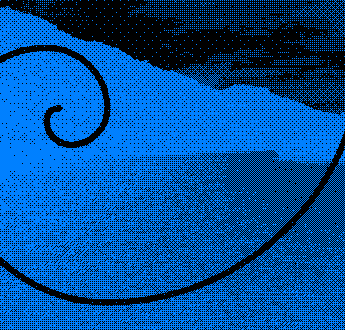
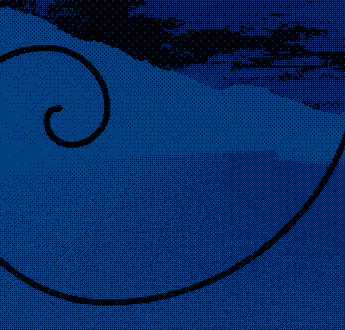
更新了一下（一整晚没睡了^^;;
这次是实打实的性能提升了（认真的，因为这个整晚都没睡了
然后没了

diff --git a/SCRIPT/SPRITE/ITEM.py b/SCRIPT/SPRITE/ITEM.py
@@ -9,9 +9,9 @@ from LOGIC import Tool
 
 class Item(pygame.sprite.Sprite):
     item_image = {
-        f"R_IT_{(0, 255, 0)}": Tool.draw_rectangle((9, 9), 2, (0, 255, 0)),
-        f"R_IT_{(45, 194, 229)}": Tool.draw_rectangle((9, 9), 2, (45, 194, 229)),
-        f"R_IT_{(255, 255, 255)}": Tool.draw_rectangle((9, 9), 2, (255, 255, 255))
+        f"R_IT_{(0, 255, 0)}": Tool.draw_rectangle((9, 9), 2, (0, 255, 0)).convert_alpha(),
+        f"R_IT_{(45, 194, 229)}": Tool.draw_rectangle((9, 9), 2, (45, 194, 229)).convert_alpha(),
+        f"R_IT_{(255, 255, 255)}": Tool.draw_rectangle((9, 9), 2, (255, 255, 255)).convert_alpha()
     }
 
     def __init__(th, type: str, speed: float, color: tuple, pos: tuple):
@@ -19,22 +19,20 @@ class Item(pygame.sprite.Sprite):
 
         th.type = type
         th.speed = speed
-        th.color = color
 
         th.current_angle = 0
         th.is_rotated = False
 
-        th.original_image = th.get_type(type)
-        th.image = th.original_image
+        th.image = th.get_type(type, color)
         th.rect = th.image.get_rect()
 
         th.rect.center = pos
 
-    def get_type(th, type: str) -> pygame.Surface:
+    def get_type(th, type: str, color: tuple) -> pygame.Surface:
         item_dict = {
-            "power": lambda: Item.item_image[f"R_IT_{th.color}"],
-            "flash": lambda: Item.item_image[f"R_IT_{th.color}"],
-            "fire": lambda: Item.item_image[f"R_IT_{th.color}"]
+            "power": lambda: Item.item_image[f"R_IT_{color}"],
+            "flash": lambda: Item.item_image[f"R_IT_{color}"],
+            "fire": lambda: Item.item_image[f"R_IT_{color}"]
         }
 
         return item_dict.get(type)()

diff --git a/SCRIPT/SPRITE/BRICK.py b/SCRIPT/SPRITE/BRICK.py
@@ -16,11 +16,11 @@ class Brick(pygame.sprite.Sprite):
     brick_dict = {
         f"C_BR_{(255, 128, 0)}": brick_image.subsurface((0, 0, 15, 15)),
         f"C_BR_{(251, 234, 18)}": brick_image.subsurface((45, 0, 15, 15)),
-        f"C_BR_{(255, 255, 255)}": Tool.draw_circle((0, 0, 15, 15), 2, (255, 255, 255)),
+        f"C_BR_{(255, 255, 255)}": Tool.draw_circle((0, 0, 15, 15), 2, (255, 255, 255)).convert_alpha(),
         f"T_BR_{(0, 255, 0)}": brick_image.subsurface((15, 0, 15, 15)),
         f"T_BR_{(255, 255, 255)}": brick_image.subsurface((60, 0, 15, 15)),
         f"R_BR_{(128, 0, 128)}": brick_image.subsurface((30, 0, 15, 15)),
-        f"R_BR_{(255, 255, 255)}": Tool.draw_rectangle((15, 15), 2, (255, 255, 255))
+        f"R_BR_{(255, 255, 255)}": Tool.draw_rectangle((15, 15), 2, (255, 255, 255)).convert_alpha()
     }
 
     def __init__(th, type: str, hp: int, color: tuple, pos: tuple):
@@ -34,10 +34,10 @@ class Brick(pygame.sprite.Sprite):
         th.have_flash = False
         th.is_die = False
 
-        th.original_image = th.get_type(type)
-        th.image = th.original_image
+        th.image = th.get_type(type)
         th.rect = th.image.get_rect()
         th.mask = pygame.mask.from_surface(th.image)
+
         th.rect.center = pos
 
     def get_type(th, type: int) -> pygame.Surface:

diff --git a/SCRIPT/GLOBAL.py b/SCRIPT/GLOBAL.py
@@ -80,17 +80,17 @@ level = 0
 
 
 picture = {
-    1: pygame.image.load(os.path.join(asset_path, 'IMAGE\IMG_STAGE1BG.png')).convert_alpha(),
-    2: pygame.image.load(os.path.join(asset_path, 'IMAGE\IMG_STAGE2BG.png')).convert_alpha(),
-    3: pygame.image.load(os.path.join(asset_path, 'IMAGE\IMG_STAGE3BG.png')).convert_alpha(),
-    4: pygame.image.load(os.path.join(asset_path, 'IMAGE\IMG_STAGE4BG.png')).convert_alpha(),
+    1: pygame.image.load(os.path.join(asset_path, 'IMAGE\IMG_STAGE1BG.png')).convert(),
+    2: pygame.image.load(os.path.join(asset_path, 'IMAGE\IMG_STAGE2BG.png')).convert(),
+    3: pygame.image.load(os.path.join(asset_path, 'IMAGE\IMG_STAGE3BG.png')).convert(),
+    4: pygame.image.load(os.path.join(asset_path, 'IMAGE\IMG_STAGE4BG.png')).convert(),
     "GAME_BG": pygame.image.load(os.path.join(asset_path, 'IMAGE\IMG_GAMEBG.png')).convert_alpha(),
-    "MENU_BG": Tool.draw_rectangle((345, 330), 0, (0, 0, 0))
+    "MENU_BG": Tool.draw_rectangle((345, 330), 0, (0, 0, 0)).convert()
 }
 
 
 background = picture["GAME_BG"]
-second_background = Tool.change_background(picture[stage], 128)
+second_background = picture[stage]
 
 
 char = None

diff --git a/SCRIPT/SPRITE/BARRAGE.py b/SCRIPT/SPRITE/BARRAGE.py
@@ -13,9 +13,9 @@ from LOGIC import FUNC, Tool
 
 class Barrage(pygame.sprite.Sprite):
     barrage_dict = {
-        f"C_BA_{(255, 128, 0)}": Tool.draw_circle((0, 0, 9, 9), 0, (255, 128, 0)),
-        f"C_BA_{(251, 234, 18)}": Tool.draw_circle((0, 0, 9, 9), 0, (251, 234, 18)),
-        f"C_BA_{(255, 255, 255)}": Tool.draw_circle((0, 0, 9, 9), 0, (255, 255, 255)),
+        f"C_BA_{(255, 128, 0)}": Tool.draw_circle((0, 0, 9, 9), 0, (255, 128, 0)).convert_alpha(),
+        f"C_BA_{(251, 234, 18)}": Tool.draw_circle((0, 0, 9, 9), 0, (251, 234, 18)).convert_alpha(),
+        f"C_BA_{(255, 255, 255)}": Tool.draw_circle((0, 0, 9, 9), 0, (255, 255, 255)).convert_alpha(),
         f"T_BA_{(0, 255, 0)}": barrage_image.subsurface((0, 0, 9, 8)),
         f"T_BA_{(255, 255, 255)}": barrage_image.subsurface((9, 0, 9, 8))
     }

diff --git a/SCRIPT/SPRITE/LINE.py b/SCRIPT/SPRITE/LINE.py
@@ -14,7 +14,6 @@ class Line(pygame.sprite.Sprite):
     def __init__(th, size: tuple, damage: int, angle: float, pos: tuple, color: tuple, target_color: tuple):
         super().__init__()
 
-        th.width, th.height = size
         th.damage = damage
         th.current_angle = angle
         th.color = color
@@ -24,7 +23,7 @@ class Line(pygame.sprite.Sprite):
         th.timer = 0
         th.is_rotated = False
 
-        th.original_image = Tool.draw_rectangle((th.width, th.height), 0, th.color)
+        th.original_image = Tool.draw_rectangle((size[0], size[1]), 0, th.color).convert_alpha()
         th.image = th.original_image
         th.rect = th.image.get_rect()
         th.mask = pygame.mask.from_surface(th.image)

diff --git a/SCRIPT/SPRITE/PARTICLE.py b/SCRIPT/SPRITE/PARTICLE.py
@@ -14,15 +14,13 @@ class Particle(pygame.sprite.Sprite):
     def __init__(th, size: tuple, speed: float, angle: float, pos: tuple, color: tuple, type: str='normal'):
         super().__init__()
 
-        th.width, th.height = size
         th.speed = speed
-        th.color = color
         th.current_angle = angle
         th.type = type
 
         th.is_rotated = False
 
-        th.original_image = Tool.draw_rectangle((th.width, th.height), 0, th.color)
+        th.original_image = Tool.draw_rectangle((size[0], size[1]), 0, color).convert_alpha()
         th.image = th.original_image
         th.rect = th.image.get_rect()
 

diff --git a/SCRIPT/SPRITE/BULLET.py b/SCRIPT/SPRITE/BULLET.py
@@ -12,8 +12,8 @@ from LOGIC import FUNC, Tool
 
 class Bullet(pygame.sprite.Sprite):
     bullet_image = {
-        "KLI_BULLET": Tool.draw_rectangle((2, 15), 0, (45, 194, 229)),
-        "KLI_BOMB": Tool.draw_rectangle((15, 15), 0, (45, 194, 229))
+        "KLI_BULLET": Tool.draw_rectangle((2, 15), 0, (45, 194, 229)).convert_alpha(),
+        "KLI_BOMB": Tool.draw_rectangle((15, 15), 0, (45, 194, 229)).convert()
     }
 
     def __init__(th, type: str, speed: float, angle: float, damage: int, pos: tuple):

diff --git a/LOGIC/TOOL.py b/LOGIC/TOOL.py
@@ -35,13 +35,6 @@ def update_fps(fps: object, timer: int, bit: int, interval: int, clock: pygame.t
     return fps, timer
 
 
-def change_background(picture: pygame.Surface, alpha: int) -> pygame.Surface:
-    background = picture
-    background.set_alpha(alpha)
-
-    return background
-
-
 def draw_rectangle(size: tuple, border: float, color: tuple) -> pygame.Surface:
     surface = pygame.Surface((size[0], size[1]), pygame.SRCALPHA)
 

diff --git a/SCRIPT/SPRITE/RECT.py b/SCRIPT/SPRITE/RECT.py
@@ -11,7 +11,7 @@ class Rect(pygame.sprite.Sprite):
     def __init__(th, size: tuple, border: float, color: tuple, pos: tuple=(0, 0)):
         super().__init__()
 
-        th.image =Tool.draw_rectangle((size[0], size[1]), border, color)
+        th.image =Tool.draw_rectangle((size[0], size[1]), border, color).convert()
         th.rect = th.image.get_rect()
         th.mask = pygame.mask.from_surface(th.image)
 

diff --git a/SCRIPT/KERNEL.py b/SCRIPT/KERNEL.py
@@ -27,7 +27,7 @@ def option() -> None:
     GLOBAL.level = int(LOGIC.FUNC.clamp(args.level, 0, 5))
     GLOBAL.flash = int(LOGIC.FUNC.clamp(args.flash, 0, 96))
     GLOBAL.power = int(LOGIC.FUNC.clamp(args.power, 0, 32))
-    GLOBAL.second_background = LOGIC.Tool.change_background(GLOBAL.picture[GLOBAL.stage], 128)
+    GLOBAL.second_background = GLOBAL.picture[GLOBAL.stage]
 
 
 def sprite_loader() -> None:

diff --git a/SCRIPT/RESET.py b/SCRIPT/RESET.py
@@ -41,7 +41,7 @@ def mode_two() -> None:
     GLOBAL.level = 0
     GLOBAL.char = None
 
-    GLOBAL.second_background = Tool.change_background(GLOBAL.picture[GLOBAL.stage], 128)
+    GLOBAL.second_background = GLOBAL.picture[GLOBAL.stage]
 
     GLOBAL.no_flash = 0
     GLOBAL.flash = 3

diff --git a/SCRIPT/KEY.py b/SCRIPT/KEY.py
@@ -143,7 +143,7 @@ def close_summary():
         next_logic1,
         next_logic2
     )
-    GLOBAL.second_background = LOGIC.Tool.change_background(GLOBAL.picture[GLOBAL.stage], 128)
+    GLOBAL.second_background = GLOBAL.picture[GLOBAL.stage]
 
 
 def key_event() -> None:
